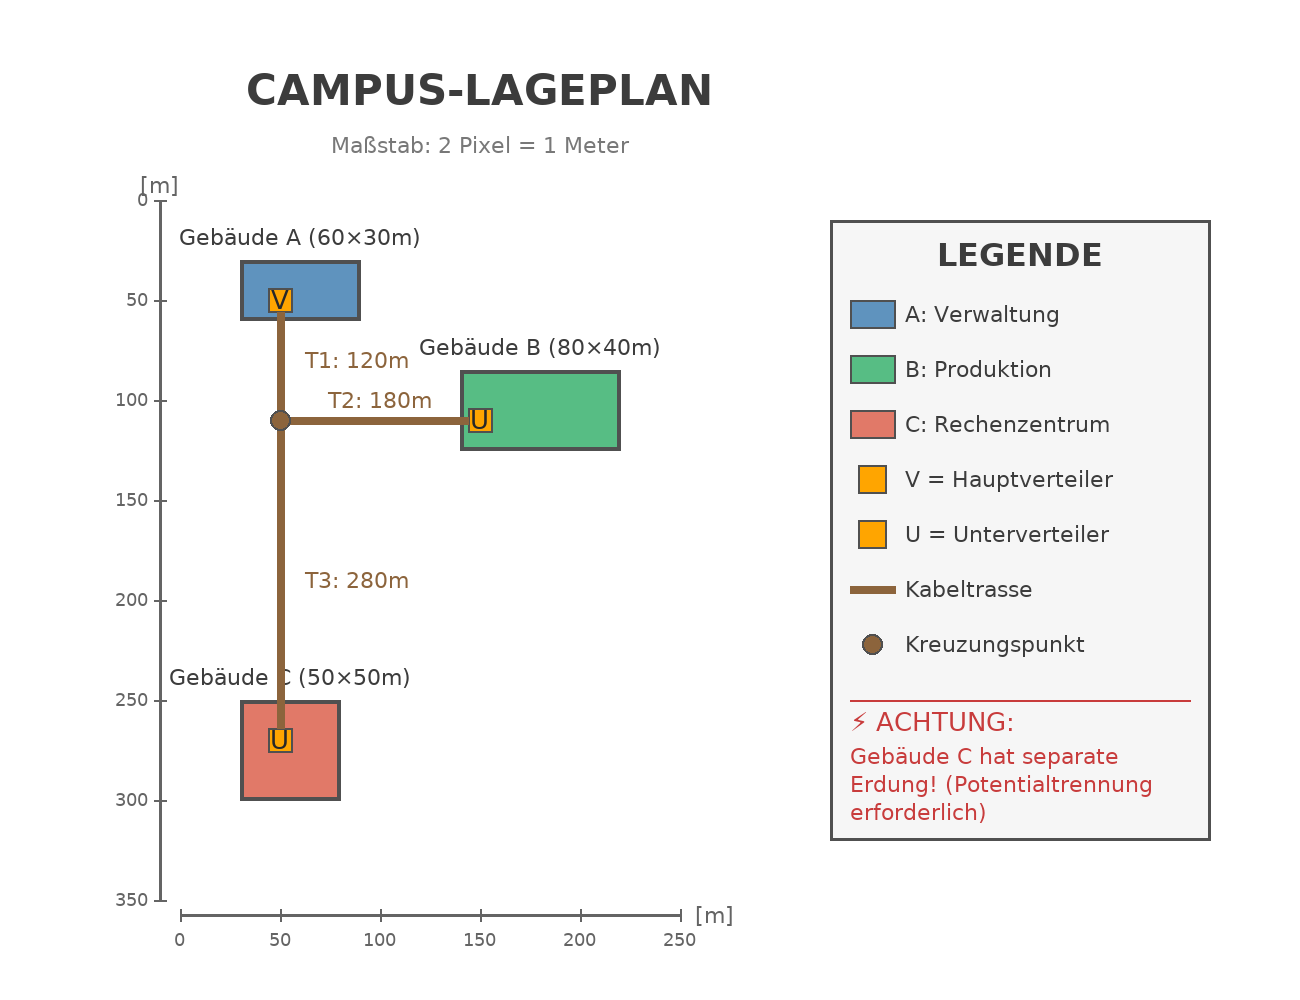
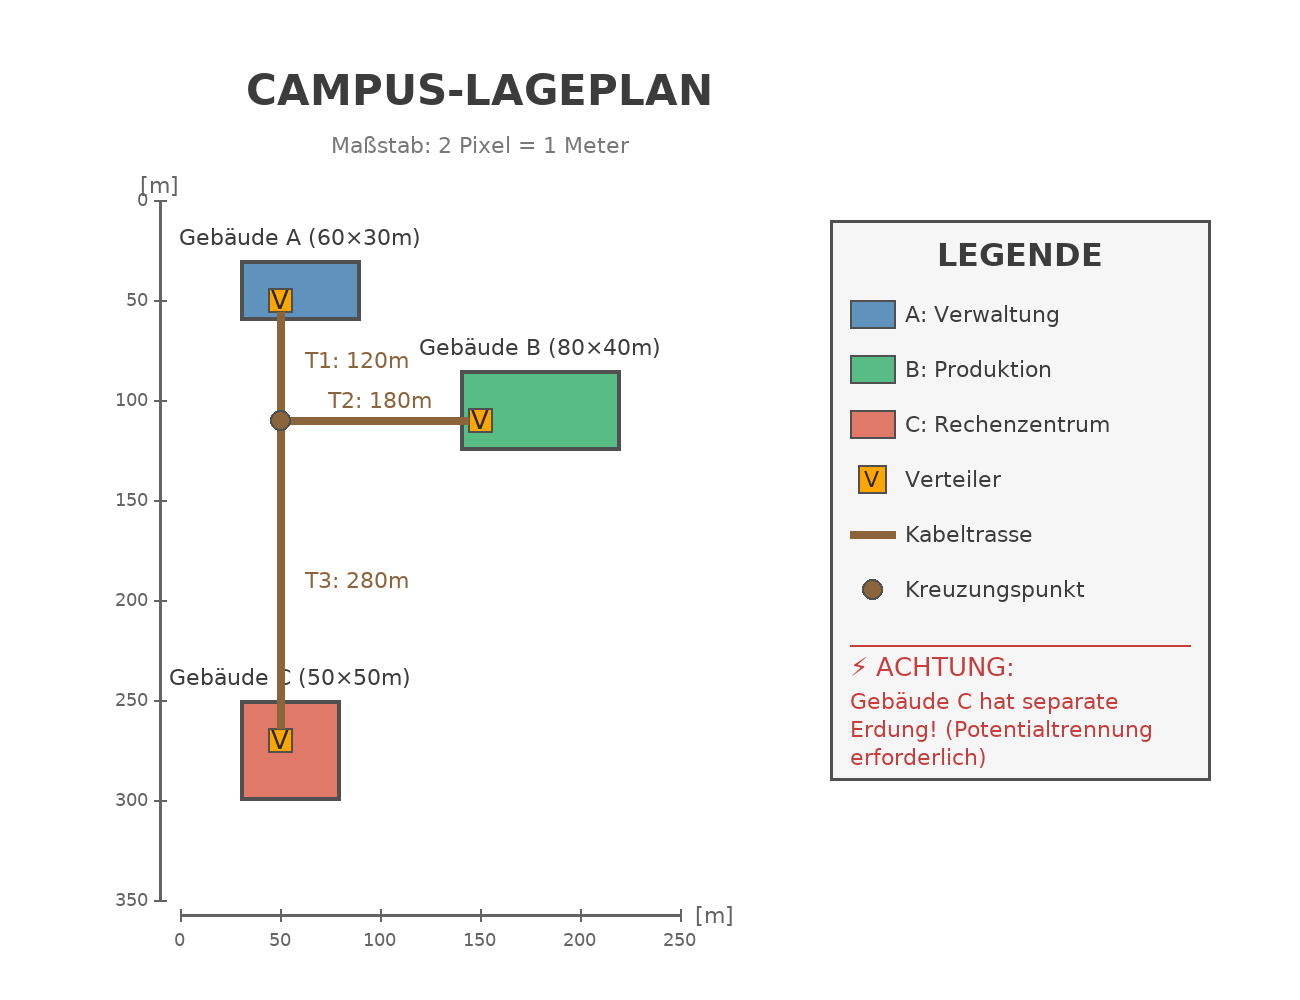
refactor(RN): Vereinheitlichte Verteiler-Bezeichnung (V statt HV/UV)
- Alle Verteiler einheitlich mit 'V' gekennzeichnet
- Grafik: V-A, V-B, V-C statt HV und UV
- Legende vereinfacht (nur noch ein Verteiler-Eintrag)
- Aufgabe und Musterlösung entsprechend angepasst

Changed region(s): [[0.6462, 0.496, 0.8923, 0.837], [0.7077, 0.465, 0.8615, 0.496]]

diff --git a/L-Betriebssysteme, Rechnernetze und verteilte Systeme/06-Aufgaben/Uebungen/UE-RN-03-Campus-Verkabelung-Loesung.md b/L-Betriebssysteme, Rechnernetze und verteilte Systeme/06-Aufgaben/Uebungen/UE-RN-03-Campus-Verkabelung-Loesung.md
@@ -115,9 +115,9 @@ Diese Musterlösung präsentiert drei verschiedene Lösungsansätze für die Cam
 
 | Verbindung | Standard | Reichweite | LWL-Typ | Begründung |
 |------------|----------|------------|---------|------------|
-| HV → UV-B | 40GBASE-SR4 | 150m (max) | OM4 | Maximale Bandbreite |
-| HV → UV-C | 40GBASE-LR4 | 10km | OS2 | Singlemode für Zukunft |
-| UV-B → UV-C | 40GBASE-SR4 | 150m | OM4 | Redundanzstrecke |
+| V-A → V-B | 40GBASE-SR4 | 150m (max) | OM4 | Maximale Bandbreite |
+| V-A → V-C | 40GBASE-LR4 | 10km | OS2 | Singlemode für Zukunft |
+| V-B → V-C | 40GBASE-SR4 | 150m | OM4 | Redundanzstrecke |
 
 **Reasoning**: OM4 für kurze Strecken (kostengünstig), OS2 für lange Strecke zu Rechenzentrum (Zukunftssicherheit für 100G+).
 
@@ -125,9 +125,9 @@ Diese Musterlösung präsentiert drei verschiedene Lösungsansätze für die Cam
 
 | Verbindung | Standard | Reichweite | LWL-Typ | Begründung |
 |------------|----------|------------|---------|------------|
-| HV → UV-B | 10GBASE-SR | 300m | OM3 | Günstig, ausreichend |
-| HV → UV-C | 10GBASE-LR | 10km | OS2 | Muss Singlemode sein |
-| UV-B → UV-C | 10GBASE-SR | 300m | OM3 | Redundanzstrecke |
+| V-A → V-B | 10GBASE-SR | 300m | OM3 | Günstig, ausreichend |
+| V-A → V-C | 10GBASE-LR | 10km | OS2 | Muss Singlemode sein |
+| V-B → V-C | 10GBASE-SR | 300m | OM3 | Redundanzstrecke |
 
 **Reasoning**: 10G erfüllt Mindestanforderung, OM3 reicht für die Strecken, OS2 nur wo technisch nötig.
 
@@ -135,9 +135,9 @@ Diese Musterlösung präsentiert drei verschiedene Lösungsansätze für die Cam
 
 | Verbindung | Standard | Reichweite | LWL-Typ | Begründung |
 |------------|----------|------------|---------|------------|
-| HV → UV-B | 10GBASE-SR | 300m | OM3 | WLAN-Traffic berücksichtigt |
-| HV → UV-C | 10GBASE-LR | 10km | OS2 | Server-Anbindung kritisch |
-| UV-B → UV-C | 10GBASE-SR | 300m | OM3 | Redundanz |
+| V-A → V-B | 10GBASE-SR | 300m | OM3 | WLAN-Traffic berücksichtigt |
+| V-A → V-C | 10GBASE-LR | 10km | OS2 | Server-Anbindung kritisch |
+| V-B → V-C | 10GBASE-SR | 300m | OM3 | Redundanz |
 
 **Reasoning**: WLAN reduziert Client-Dichte am Kabel, aber Backbone muss Spitzenlast aller APs verkraften.
 
@@ -205,13 +205,13 @@ Diese Musterlösung präsentiert drei verschiedene Lösungsansätze für die Cam
 
 ---
 
-## Aufgabe 5: Core-Switch im Hauptverteiler (2 Punkte)
+## Aufgabe 5: Core-Switch im Verteiler A (2 Punkte)
 
 ### Reasoning
 
 **Anforderungen an den Core-Switch:**
 1. Zentrale Routing-Instanz für drei Gebäude → Layer 3 sinnvoll
-2. Uplinks zu UV-B und UV-C → LWL-Ports (SFP+/QSFP+)
+2. Uplinks zu V-B und V-C → LWL-Ports (SFP+/QSFP+)
 3. Lokale Anbindung in Gebäude A → Kupfer-Ports oder weitere SFP+
 4. Redundanz → Stack-fähig oder modulares Chassis
 5. Management → Out-of-Band-Management-Port
@@ -232,8 +232,8 @@ Diese Musterlösung präsentiert drei verschiedene Lösungsansätze für die Cam
 | Features | OSPF/BGP, VRRP, LACP, QoS, 802.1X |
 
 **SFP/QSFP-Module:**
-- QSFP+ SR4 für OM4-Strecken (HV→UV-B, Redundanz)
-- QSFP+ LR4 für OS2-Strecke (HV→UV-C)
+- QSFP+ SR4 für OM4-Strecken (V-A→V-B, Redundanz)
+- QSFP+ LR4 für OS2-Strecke (V-A→V-C)
 
 #### Variante B: Kostenoptimiert
 
@@ -267,16 +267,16 @@ Diese Musterlösung präsentiert drei verschiedene Lösungsansätze für die Cam
 
 ---
 
-## Aufgabe 6: Unterverteiler-Switches (2 Punkte)
+## Aufgabe 6: Switches Verteiler B und C (2 Punkte)
 
 ### Reasoning
 
-**UV-B (Produktion):**
+**V-B (Produktion):**
 - 80 Arbeitsplätze auf 2 Etagen → ca. 40 Ports/Etage
 - Industrie-Umgebung → evtl. robustere Hardware
-- Uplink zum HV und Redundanzlink zu UV-C
+- Uplink zum V-A und Redundanzlink zu V-C
 
-**UV-C (Rechenzentrum):**
+**V-C (Rechenzentrum):**
 - 20 Arbeitsplätze + Server
 - Höchste Anforderungen an Bandbreite und Zuverlässigkeit
 - Server benötigen 10G-Anbindung
@@ -286,22 +286,22 @@ Diese Musterlösung präsentiert drei verschiedene Lösungsansätze für die Cam
 
 #### Variante A: Optimal
 
-**UV-B (Produktion):**
+**V-B (Produktion):**
 
 | Komponente | Spezifikation |
 |------------|---------------|
 | Switch-Typ | 2× Layer 2/3 Stackable (einer pro Etage) |
-| Uplink-Ports | 2× SFP+ pro Switch (LACP zum HV) |
+| Uplink-Ports | 2× SFP+ pro Switch (LACP zum V-A) |
 | Access-Ports | 48× 1G/2.5G PoE+ pro Switch |
 | LWL-Module | SFP+ SR (OM4) |
 | Features | 802.1X, VLAN, QoS, IGMP Snooping |
 
-**UV-C (Rechenzentrum):**
+**V-C (Rechenzentrum):**
 
 | Komponente | Spezifikation |
 |------------|---------------|
 | Switch-Typ | 2× Layer 2/3 ToR-Switch (redundant) |
-| Uplink-Ports | 4× QSFP+ (2× zum HV, 2× zu UV-B) |
+| Uplink-Ports | 4× QSFP+ (2× zum V-A, 2× zu V-B) |
 | Server-Ports | 24× SFP+ (10G) oder 10GBASE-T |
 | Client-Ports | 24× 1G/2.5G |
 | Features | MLAG/VPC, Jumbo Frames, DCB (Data Center Bridging) |
@@ -309,7 +309,7 @@ Diese Musterlösung präsentiert drei verschiedene Lösungsansätze für die Cam
 
 #### Variante B: Kostenoptimiert
 
-**UV-B (Produktion):**
+**V-B (Produktion):**
 
 | Komponente | Spezifikation |
 |------------|---------------|
@@ -318,7 +318,7 @@ Diese Musterlösung präsentiert drei verschiedene Lösungsansätze für die Cam
 | Access-Ports | 48× 1GBASE-T |
 | LWL-Module | SFP+ SR (OM3) |
 
-**UV-C (Rechenzentrum):**
+**V-C (Rechenzentrum):**
 
 | Komponente | Spezifikation |
 |------------|---------------|
@@ -329,7 +329,7 @@ Diese Musterlösung präsentiert drei verschiedene Lösungsansätze für die Cam
 
 #### Variante C: WLAN-Hybrid
 
-**UV-B (Produktion):**
+**V-B (Produktion):**
 
 | Komponente | Spezifikation |
 |------------|---------------|
@@ -338,7 +338,7 @@ Diese Musterlösung präsentiert drei verschiedene Lösungsansätze für die Cam
 | Access-Ports | 24× PoE++ (für APs + wenige Kabel-Clients) |
 | AP-Anbindung | 802.3bt (bis 90W für WiFi 6E APs) |
 
-**UV-C (Rechenzentrum):**
+**V-C (Rechenzentrum):**
 
 | Komponente | Spezifikation |
 |------------|---------------|
@@ -366,10 +366,10 @@ Diese Musterlösung präsentiert drei verschiedene Lösungsansätze für die Cam
 
 **Topologie-Optionen:**
 
-1. **Stern**: Alle zu HV → Kein Ausfall-Schutz für HV
+1. **Stern**: Alle zu V-A → Kein Ausfall-Schutz für V-A
 2. **Ring**: A→B→C→A → Eine Leitung kann ausfallen
 3. **Vollvermaschung**: A↔B, A↔C, B↔C → Maximale Redundanz
-4. **Stern + Ring**: HV als Zentrum mit Bypass B↔C
+4. **Stern + Ring**: V-A als Zentrum mit Bypass B↔C
 
 ### Antwort
 
@@ -380,7 +380,7 @@ Diese Musterlösung präsentiert drei verschiedene Lösungsansätze für die Cam
         │                                     │
         ▼                                     │
    ┌─────────┐      40G LWL (OM4)      ┌─────────┐
-   │   HV    │◄────────────────────────│  UV-B   │
+   │   V-A    │◄────────────────────────│  V-B   │
    │ (Geb.A) │         150m            │ (Geb.B) │
    └────┬────┘                         └────┬────┘
         │                                   │
@@ -389,7 +389,7 @@ Diese Musterlösung präsentiert drei verschiedene Lösungsansätze für die Cam
         │                                   │
         ▼                                   ▼
    ┌─────────────────────────────────────────────┐
-   │                  UV-C (Geb.C)               │
+   │                  V-C (Geb.C)               │
    │                 Rechenzentrum               │
    └─────────────────────────────────────────────┘
 ```
@@ -404,7 +404,7 @@ Diese Musterlösung präsentiert drei verschiedene Lösungsansätze für die Cam
 
 ```
    ┌─────────┐      10G LWL (OM3)      ┌─────────┐
-   │   HV    │◄────────────────────────│  UV-B   │
+   │   V-A    │◄────────────────────────│  V-B   │
    │ (Geb.A) │         150m            │ (Geb.B) │
    └────┬────┘                         └────┬────┘
         │                                   │
@@ -413,13 +413,13 @@ Diese Musterlösung präsentiert drei verschiedene Lösungsansätze für die Cam
         │                                   │
         ▼                                   ▼
    ┌─────────────────────────────────────────────┐
-   │                  UV-C (Geb.C)               │
+   │                  V-C (Geb.C)               │
    │                 Rechenzentrum               │
    └─────────────────────────────────────────────┘
 ```
 
 **Eigenschaften:**
-- Ring: HV → UV-B → UV-C → HV
+- Ring: V-A → V-B → V-C → V-A
 - Eine Leitung kann ausfallen
 - Spanning Tree verhindert Schleifen
 - Günstiger als Full Mesh
@@ -428,7 +428,7 @@ Diese Musterlösung präsentiert drei verschiedene Lösungsansätze für die Cam
 
 ```
    ┌─────────┐      10G LWL (OM3)      ┌─────────┐
-   │   HV    │◄────────────────────────│  UV-B   │
+   │   V-A    │◄────────────────────────│  V-B   │
    │ (Geb.A) │         150m            │ (Geb.B) │
    │  WLAN   │                         │  WLAN   │
    │Controller                         │   APs   │
@@ -439,13 +439,13 @@ Diese Musterlösung präsentiert drei verschiedene Lösungsansätze für die Cam
         │                                   │
         ▼                                   ▼
    ┌─────────────────────────────────────────────┐
-   │                  UV-C (Geb.C)               │
+   │                  V-C (Geb.C)               │
    │            Rechenzentrum + WLAN            │
    └─────────────────────────────────────────────┘
 ```
 
 **Eigenschaften:**
-- Primär: Stern zum HV
+- Primär: Stern zum V-A
 - Backup: Ring oder WLAN-Mesh zwischen Gebäuden
 - WLAN-Mesh als Not-Backup (geringere Bandbreite)
 - Outdoor-APs für Gebäude-zu-Gebäude-Verbindung
@@ -491,13 +491,13 @@ Diese Musterlösung präsentiert drei verschiedene Lösungsansätze für die Cam
 **Konfigurationskonzept:**
 ```
 MST Region: CAMPUS
-  Instance 1: VLANs 1-100 (Clients) → Root: HV
-  Instance 2: VLANs 101-200 (Server) → Root: UV-C
+  Instance 1: VLANs 1-100 (Clients) → Root: V-A
+  Instance 2: VLANs 101-200 (Server) → Root: V-C
   
 LACP:
-  HV ↔ UV-B: 2× 40G gebündelt (Po1)
-  HV ↔ UV-C: 2× 40G gebündelt (Po2)
-  UV-B ↔ UV-C: 2× 40G gebündelt (Po3)
+  V-A ↔ V-B: 2× 40G gebündelt (Po1)
+  V-A ↔ V-C: 2× 40G gebündelt (Po2)
+  V-B ↔ V-C: 2× 40G gebündelt (Po3)
 ```
 
 **Umschaltzeit:**
@@ -516,14 +516,14 @@ LACP:
 **Konfigurationskonzept:**
 ```
 RSTP Bridge Priority:
-  HV:   4096 (Root Bridge)
-  UV-B: 8192
-  UV-C: 12288
+  V-A:   4096 (Root Bridge)
+  V-B: 8192
+  V-C: 12288
 
 Port Roles:
-  HV → UV-B: Designated
-  HV → UV-C: Designated
-  UV-B → UV-C: Alternate (Backup)
+  V-A → V-B: Designated
+  V-A → V-C: Designated
+  V-B → V-C: Alternate (Backup)
 ```
 
 **Umschaltzeit:** 1-3 Sekunden
@@ -544,7 +544,7 @@ Port Roles:
 ```
 RSTP für Backbone (1-3s Konvergenz)
 802.11r für WLAN-Clients (< 50ms Roaming)
-LACP nur für Server-Anbindung in UV-C
+LACP nur für Server-Anbindung in V-C
 ```
 
 **Umschaltzeit:**
@@ -581,22 +581,22 @@ LACP nur für Server-Anbindung in UV-C
 
 | Ebene | Komponenten | Medium | Verteiler |
 |-------|-------------|--------|-----------|
-| **Primär** | HV ↔ UV-B, HV ↔ UV-C, UV-B ↔ UV-C | LWL (OM3/OM4/OS2) | HV (Standortverteiler) |
-| **Sekundär** | UV-B ↔ Etagenverteiler EG/1.OG | LWL oder Cat 6a | UV-B, UV-C (Gebäudeverteiler) |
+| **Primär** | V-A ↔ V-B, V-A ↔ V-C, V-B ↔ V-C | LWL (OM3/OM4/OS2) | V-A (Standortverteiler) |
+| **Sekundär** | V-B ↔ Etagenverteiler EG/1.OG | LWL oder Cat 6a | V-B, V-C (Gebäudeverteiler) |
 | **Tertiär** | Etagenverteiler ↔ Anschlussdosen | Cat 6/6a | Etagenverteiler (Floor Distributor) |
 
 #### Variante A: Optimal
 
 ```
 Primärverkabelung:
-├── HV (Geb. A) ──40G OM4──► UV-B (Geb. B)
-├── HV (Geb. A) ──40G OS2──► UV-C (Geb. C)
-└── UV-B ──────────40G OM4──► UV-C (Redundanz)
+├── V-A (Geb. A) ──40G OM4──► V-B (Geb. B)
+├── V-A (Geb. A) ──40G OS2──► V-C (Geb. C)
+└── V-B ──────────40G OM4──► V-C (Redundanz)
 
 Sekundärverkabelung (Beispiel Geb. A):
-├── HV ──10G OM3──► EV-A-EG (Etagenverteiler EG)
-├── HV ──10G OM3──► EV-A-1OG
-└── HV ──10G OM3──► EV-A-2OG
+├── V-A ──10G OM3──► EV-A-EG (Etagenverteiler EG)
+├── V-A ──10G OM3──► EV-A-1OG
+└── V-A ──10G OM3──► EV-A-2OG
 
 Tertiärverkabelung:
 └── EV-A-EG ──Cat 6a──► Anschlussdosen (max. 90m)

diff --git a/L-Betriebssysteme, Rechnernetze und verteilte Systeme/06-Aufgaben/Uebungen/UE-RN-03-Campus-Verkabelung.md b/L-Betriebssysteme, Rechnernetze und verteilte Systeme/06-Aufgaben/Uebungen/UE-RN-03-Campus-Verkabelung.md
@@ -32,11 +32,11 @@ Ein mittelständisches Unternehmen plant die Netzwerkinfrastruktur für seinen n
 
 ## Gebäudedaten
 
-| Gebäude | Funktion | Grundfläche | Etagen | Arbeitsplätze | Unterverteiler |
-|---------|----------|-------------|--------|---------------|----------------|
-| **A** | Verwaltung | 60m × 30m | 3 | 150 | Hauptverteiler (HV) |
-| **B** | Produktion | 80m × 40m | 2 | 80 | Unterverteiler (UV-B) |
-| **C** | Rechenzentrum | 50m × 50m | 1 | 20 + Server | Unterverteiler (UV-C) |
+| Gebäude | Funktion | Grundfläche | Etagen | Arbeitsplätze | Verteiler |
+|---------|----------|-------------|--------|---------------|-----------|
+| **A** | Verwaltung | 60m × 30m | 3 | 150 | V-A |
+| **B** | Produktion | 80m × 40m | 2 | 80 | V-B |
+| **C** | Rechenzentrum | 50m × 50m | 1 | 20 + Server | V-C |
 
 ---
 
@@ -44,9 +44,9 @@ Ein mittelständisches Unternehmen plant die Netzwerkinfrastruktur für seinen n
 
 | Trasse | Von | Nach | Länge (Luftlinie) | Geschätzte Kabellänge* |
 |--------|-----|------|-------------------|------------------------|
-| **1** | HV (Geb. A) | UV-B (Geb. B) | 120m | ca. 150m |
+| **1** | V-A (Geb. A) | V-B (Geb. B) | 120m | ca. 150m |
 | **2** | Verbindung | Geb. B Eingang | 180m | ca. 220m |
-| **3** | HV (Geb. A) | UV-C (Geb. C) | 280m | ca. 350m |
+| **3** | V-A (Geb. A) | V-C (Geb. C) | 280m | ca. 350m |
 
 *Geschätzte Kabellänge berücksichtigt: Verlegereserve, Steigzonen, Kabelführung in Gebäuden (+20-25%)
 
@@ -109,18 +109,18 @@ Wählen Sie geeignete Ethernet-Standards für die Client-Anbindung in den Gebäu
 
 ---
 
-### Aufgabe 5: Core-Switch im Hauptverteiler (2 Punkte)
+### Aufgabe 5: Core-Switch im Verteiler A (2 Punkte)
 
-Beschreiben Sie die Anforderungen an den Core-Switch im Hauptverteiler (Gebäude A):
+Beschreiben Sie die Anforderungen an den Core-Switch im Verteiler A (Gebäude A):
 - Layer 2 oder Layer 3?
 - Welche Port-Typen werden benötigt?
 - Welche SFP/SFP+-Module für die LWL-Strecken?
 
 ---
 
-### Aufgabe 6: Unterverteiler-Switches (2 Punkte)
+### Aufgabe 6: Switches in Verteiler B und C (2 Punkte)
 
-Bestimmen Sie die Anforderungen an die Switches in den Unterverteilern B und C:
+Bestimmen Sie die Anforderungen an die Switches in den Verteilern B und C:
 - Anzahl und Typ der Uplink-Ports
 - Anzahl der Access-Ports für Clients
 - Besonderheiten für den Switch im Rechenzentrum (Gebäude C)
@@ -194,8 +194,8 @@ Nennen Sie mindestens drei relevante Normen für die strukturierte Verkabelung u
 | 2 | Medienauswahl Trasse 3 (Potentialtrennung) | 2 |
 | 3 | Ethernet-Standards Backbone | 2 |
 | 4 | Ethernet-Standards Client | 2 |
-| 5 | Core-Switch Anforderungen | 2 |
-| 6 | Unterverteiler-Switches | 2 |
+| 5 | Core-Switch Verteiler A | 2 |
+| 6 | Switches Verteiler B und C | 2 |
 | 7 | Redundante Topologie | 2 |
 | 8 | Spanning Tree Protocol | 2 |
 | 9 | Strukturierte Verkabelung | 2 |
